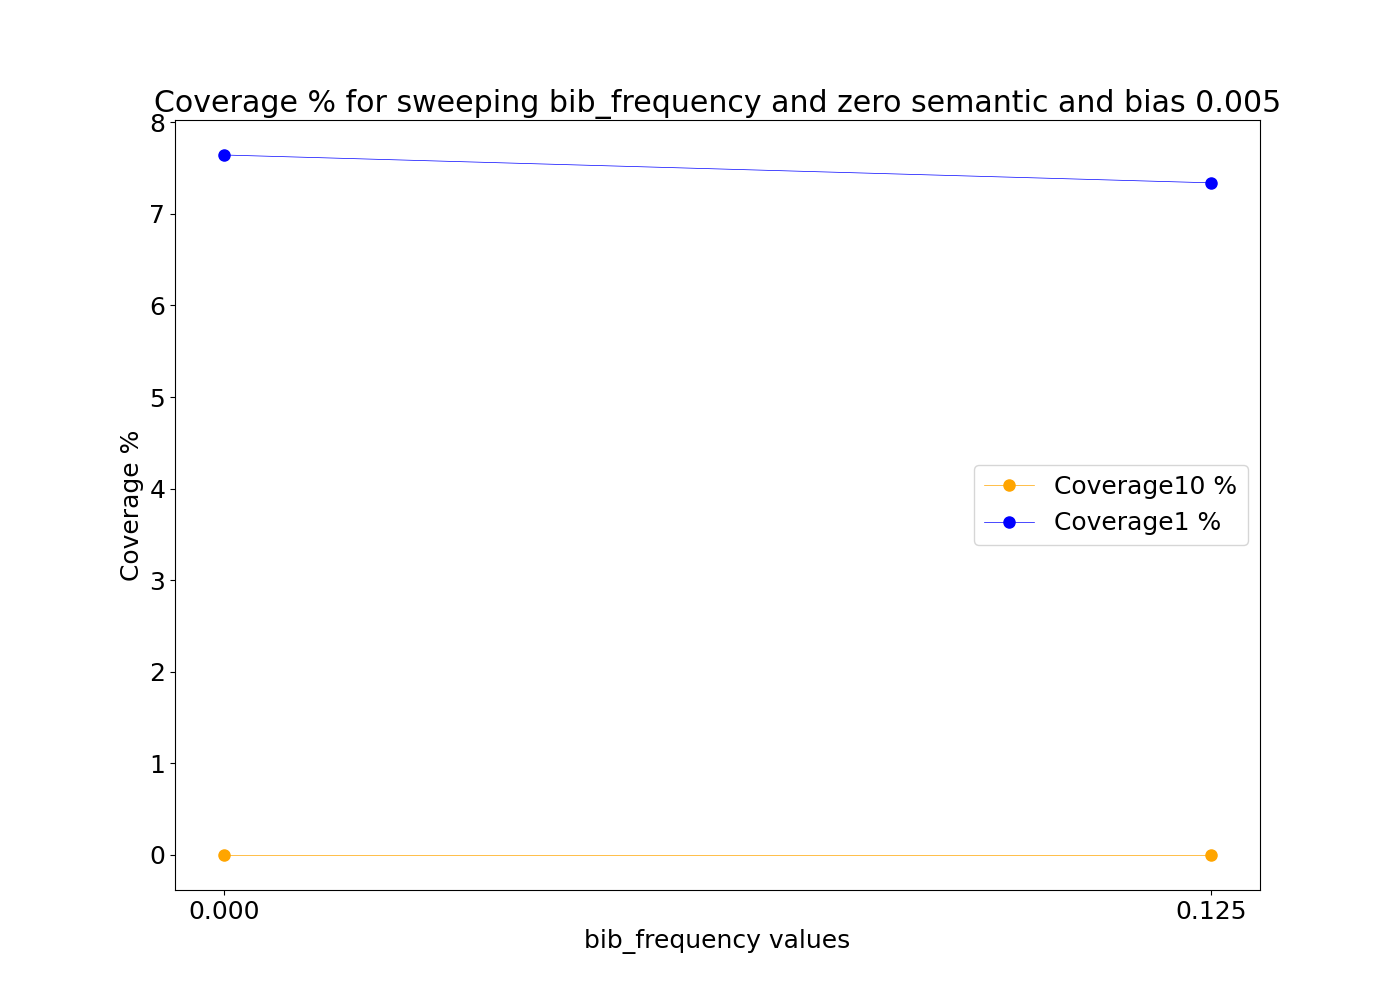
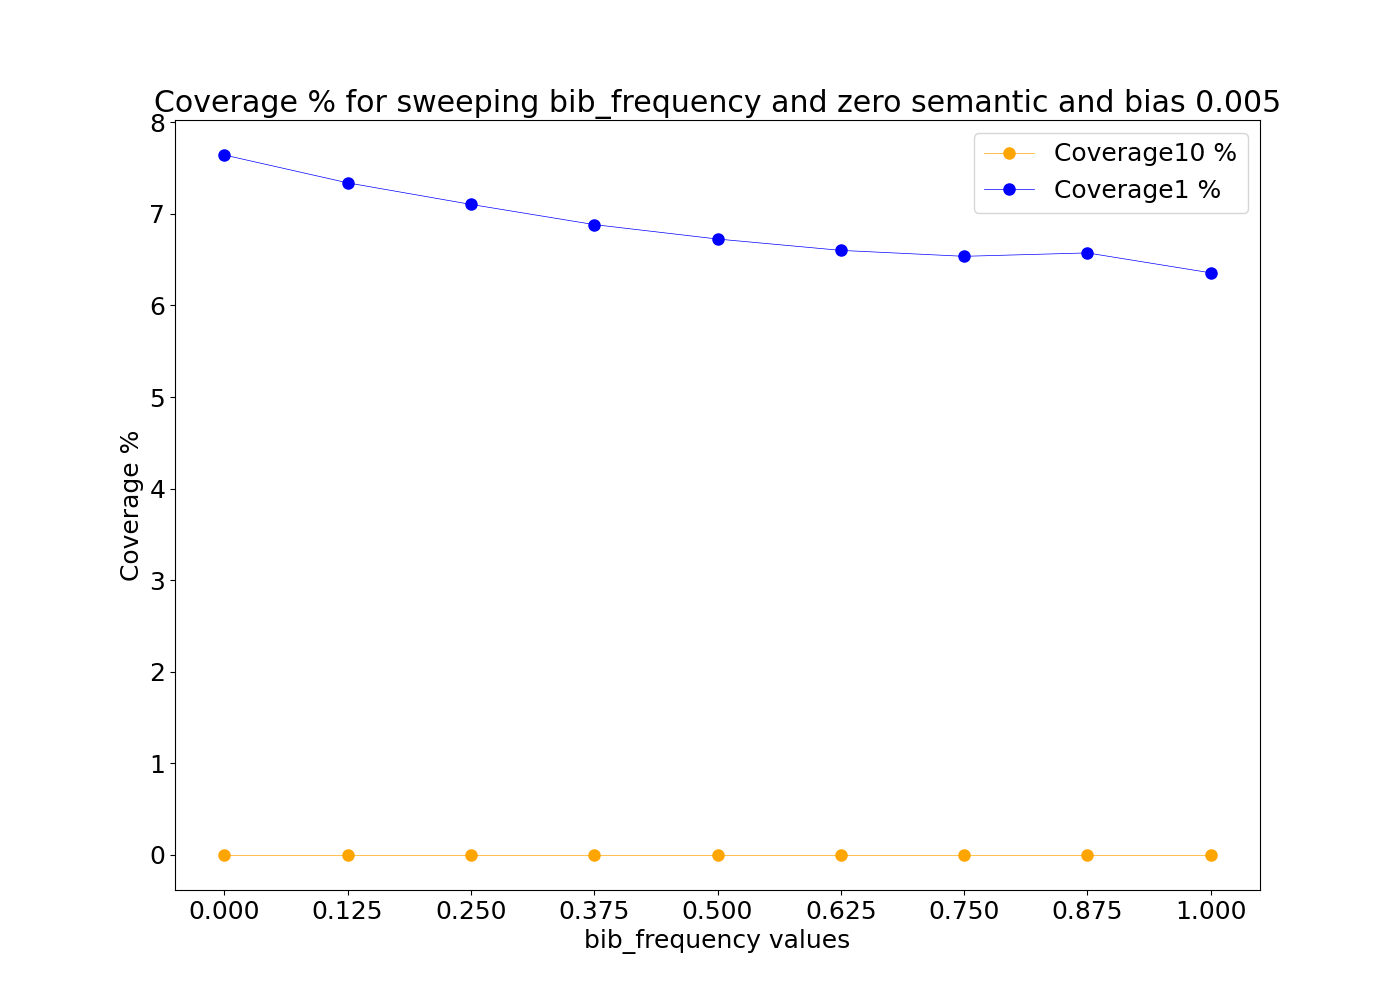
Figures for case with bias

diff --git a/step_10_cluster/weighting_clustering_pipeline.py b/step_10_cluster/weighting_clustering_pipeline.py
@@ -876,7 +876,7 @@ def sweep_topological_features_only(iGraph, nx_Graph, raw_df, best_found_res, bi
 
 def standardize_clustering(iGraph, nx_Graph, raw_df, current_weighting, best_found_res, bias, save_dir):
     t0 = time.time()
-    result_df = apply_row_transformation(raw_df, current_weighting, 1, bias, 32)
+    result_df = apply_row_transformation(raw_df, current_weighting, 1, bias, 24)
 
     t1 = time.time()
     print(f'weights calculated {t1-t0}')
@@ -935,7 +935,7 @@ if __name__ == '__main__': # 248213
     #     .config("spark.driver.maxResultSize", "4g").getOrCreate()
     #
     # spark.sparkContext.setLogLevel("WARN")
-
+    #
     result_dir = f"files/results/topo_only_individual_sweep_with_bias/"
     fig_dir = f"figures/topo_only_individual_sweep_with_bias/"
     plot_sweep_topological_features_only(result_dir, fig_dir)
@@ -959,7 +959,7 @@ if __name__ == '__main__': # 248213
 
     saving_dir = f"files/results/topo_only_individual_sweep_with_bias/"
     sweep_topological_features_only(iGraph=H_ig, nx_Graph=G_nx, raw_df=df, best_found_res=0.05, bias=0.005, points=8, directory_to_save_results=saving_dir)
-    # exit(0)
+    exit(0)
 
     # sweep_bi_feature(G_nx, H_ig, df, best_found_res = 0.05)
 
